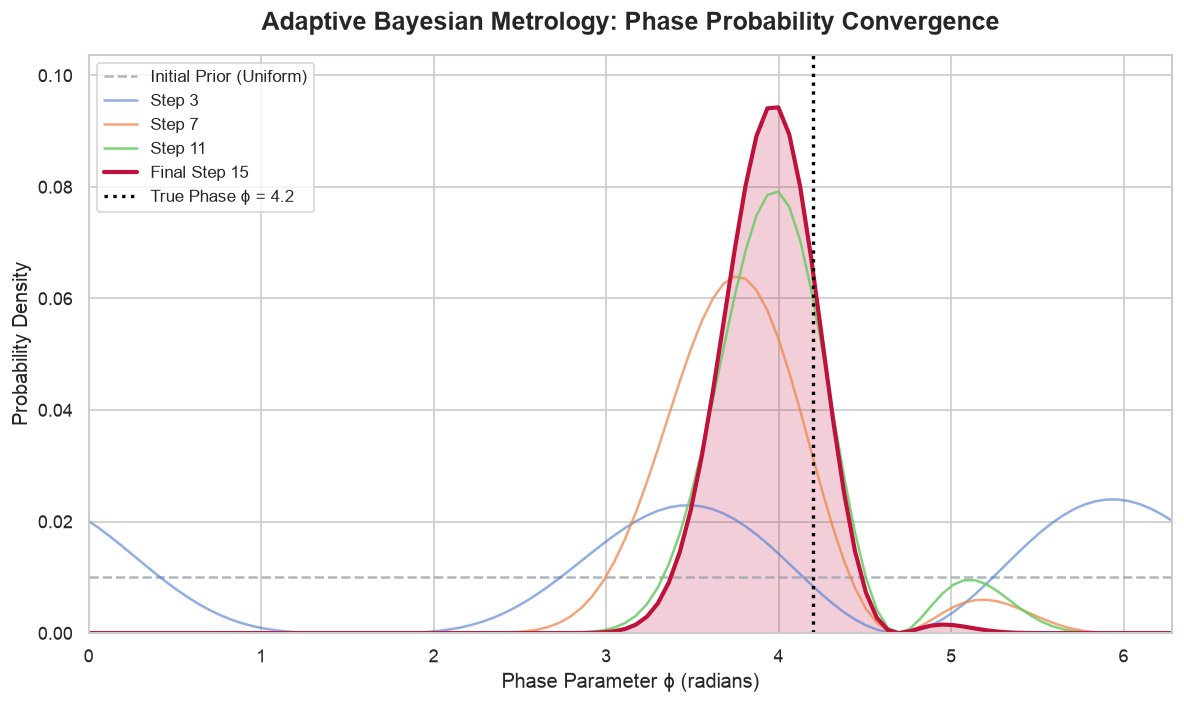
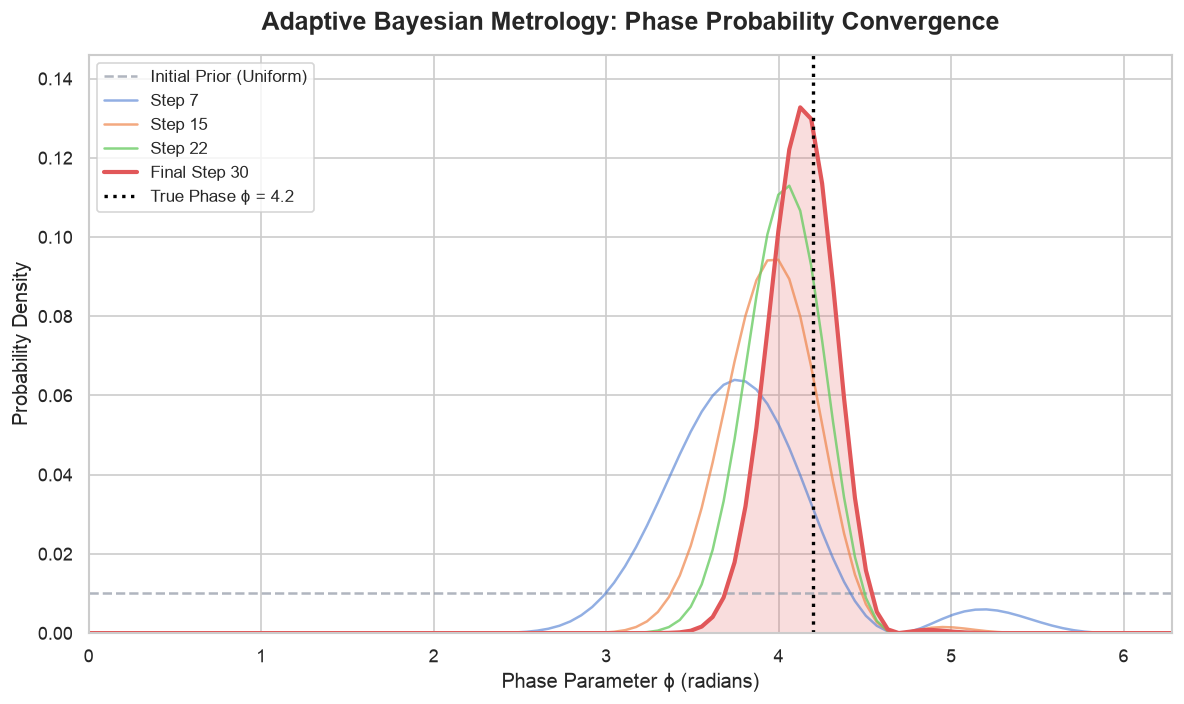
refactor: update adaptive Bayesian metrology simulation to run for 30 steps and reflect changes in figure caption

diff --git a/projects/quantum-bayesian-inference.html b/projects/quantum-bayesian-inference.html
@@ -339,20 +339,28 @@ def metrology_circuit(phi_true, theta):
     qml.Hadamard(wires=0)            # Measure in X basis
     return qml.probs(wires=0)
 
-# Inside the adaptive update loop:
-if m_t == 0:
-    likelihood = (1 + np.cos(phi_grid - theta_t)) / 2
-else:
-    likelihood = (1 - np.cos(phi_grid - theta_t)) / 2
+# Setup simulation with n_steps = 30
+n_steps = 30
+steps_to_save = sorted(list({n_steps // 4, n_steps // 2, (3 * n_steps) // 4, n_steps}))
+
+# Adaptive loop update step using Bayes' rule:
+for t in range(1, n_steps + 1):
+    phi_est = phi_grid[np.argmax(p_phi)]
+    delta = 0 if t % 2 == 0 else np.pi / 2
+    theta_t = phi_est + delta
     
-p_phi = likelihood * p_phi
-p_phi /= np.sum(p_phi)  # Normalize</code></pre>
+    probs = metrology_circuit(phi_true, theta_t)
+    m_t = np.random.choice([0, 1], p=probs)
+    
+    likelihood = (1 + np.cos(phi_grid - theta_t)) / 2 if m_t == 0 else (1 - np.cos(phi_grid - theta_t)) / 2
+    p_phi = likelihood * p_phi
+    p_phi /= np.sum(p_phi)  # Normalize</code></pre>
 
             <p>Over several steps of this hybrid quantum-classical loop, the wide uniform distribution collapses into a sharp spike centered on the true phase value, illustrating rapid convergence.</p>
 
             <figure>
-                <img src="Quantum Bayesian Inference/metrology_phase_evolution.png" alt="Probability density curves showing convergence of phase estimation over 15 steps" loading="lazy">
-                <figcaption>Figure 8: Adaptive Bayesian Metrology. As the measurement count increases from Step 0 to Step 15, the wide uniform prior collapses into a tight spike centered exactly on the true phase value of 4.2000 radians.</figcaption>
+                <img src="Quantum Bayesian Inference/metrology_phase_evolution.png" alt="Probability density curves showing convergence of phase estimation over 30 steps" loading="lazy">
+                <figcaption>Figure 8: Adaptive Bayesian Metrology. As the measurement count increases from Step 0 to Step 30, the wide uniform prior collapses into a tight spike centered exactly on the true phase value of 4.2000 radians.</figcaption>
             </figure>
 
             <h3>5. Bayesian Optimization for Variational Quantum Algorithms (VQAs)</h3>